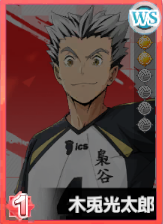
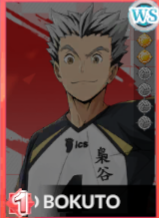
UR
UR stats missing

diff --git a/data-global.js b/data-global.js
@@ -22,7 +22,7 @@ const characters = [
     { name: "Kazuhito R", role: "MB", img: "img-global/kazuhitoR.png", school: "Karasuno", bonds: ["Bench cheer","The Returning Trio"] },
     { name: "Kageyama SR", role: "S", img: "img-global/tobioSR.png", school: "Kitagawa", bonds: [] },
 
-    { name: "Oikawa UR", role: "S", img: "img-japan/oikawaUR.png", school: "Aoba Johsai", bonds: ["Breath of Aoba","To Greater Heights","Fated Rivals","Merciless Trust"] },
+    { name: "Oikawa UR", role: "S", img: "img-global/oikawaUR.png", school: "Aoba Johsai", bonds: ["Breath of Aoba","To Greater Heights","Fated Rivals","Merciless Trust"] },
     { name: "Oikawa SSR", role: "S", img: "img-global/oikawaSSR.png", school: "Aoba Johsai", bonds: ["Team Chemistry"] },
     { name: "Iwaizumi SSR", role: "WS", img: "img-global/iwaizumiSSR.png", school: "Aoba Johsai", bonds: ["The Wolf Pack","Breath of Aoba"] },
     { name: "Iwaizumi SR", role: "WS", img: "img-global/iwaizumiSR.png", school: "Aoba Johsai", bonds: ["The Wolf Pack(Practice)","Team Chemistry"] },
@@ -47,7 +47,7 @@ const characters = [
     { name: "Fukunaga SR", role: "WS", img: "img-global/fukunagaSR.png", school: "Nekoma", bonds: ["Nekoma\'s Wing Spiker"] },
     { name: "Inuoka SR", role: "MB", img: "img-global/inuokaSR.png", school: "Nekoma", bonds: ["Worthy Rival","Nekoma\'s Junior"] },
     { name: "Teshiro SR", role: "S", img: "img-global/teshiroSR.png", school: "Nekoma", bonds: ["Nekoma\'s Junior"] },
-    { name: "Yaku SSR", role: "Li", img: "img-japan/yakuSSR.png", school: "Nekoma", bonds: ["Team's Guardians","Reliable Seniors","Protective Guidance"] },
+    { name: "Yaku SSR", role: "Li", img: "img-global/yakuSSR.png", school: "Nekoma", bonds: ["Team's Guardians","Reliable Seniors","Protective Guidance"] },
 
 
     { name: "Aone SSR", role: "MB", img: "img-global/aoneSSR.png", school: "Date Kogyo", bonds: ["Cannon \& Iron Wall","Surprising Friendship","The Silent and the Snarky"] },
@@ -69,10 +69,10 @@ const characters = [
     { name: "Goshiki SSR", role: "WS", img: "img-global/goshikiSSR.png", school: "Shiratorizawa", bonds: ["Promising Senpai","Undisputed Aces","Shiratorizawa's WS"] },
     { name: "Tendo SSR", role: "MB", img: "img-global/tendoSSR.png", school: "Shiratorizawa", bonds: ["Lifelong Best Friends","Promising Senpai","Shiratorizawa\'s Middke Blocker","Prediction VS System"] },
     { name: "Taichi SR", role: "MB", img: "img-global/kawanishiSR.png", school: "Shiratorizawa", bonds: ["Shiratorizawa\'s Middke Blocker","Shiratorizawa 2nd Years"] },
-    { name: "Shirabu SSR", role: "S", img: "img-japan/shirabuSSR.png",school: "Shiratorizawa", bonds: ["The Absolute King and the Steadfast Setter","Shiratorizawa 2nd Years"] },
-    { name: "Ohira SSR", role: "WS", img: "img-japan/ohiraSSR.png",school: "Shiratorizawa", bonds: ["Ushiwaka and Benkei","Shiratorizawa's WS"] },
+    { name: "Shirabu SSR", role: "S", img: "img-global/shirabuSSR.png",school: "Shiratorizawa", bonds: ["The Absolute King and the Steadfast Setter","Shiratorizawa 2nd Years"] },
+    { name: "Ohira SSR", role: "WS", img: "img-global/ohiraSSR.png",school: "Shiratorizawa", bonds: ["Ushiwaka and Benkei","Shiratorizawa's WS"] },
 
-    { name: "Bokuto UR", role: "WS", img: "img-japan/bokutoUR.png",school: "Fukurodani", bonds: ["Number One Disciple"] },
+    { name: "Bokuto UR", role: "WS", img: "img-global/bokutoUR.png",school: "Fukurodani", bonds: ["Number One Disciple"] },
 
 
 ];

diff --git a/players-data.js b/players-data.js
@@ -443,7 +443,7 @@ const players = [{
   id: "asahi(Practice)",
   name: "Asahi Azumane (Practice)",
   img: "img-char/asahiSR.png",
-    card_g: "img-global/asahiSR.png",
+  card_g: "img-global/asahiSR.png",
   card_j: "img-japan/asahiSR.png",
   school: "Karasuno",
   rarity: "SR",
@@ -1259,6 +1259,35 @@ const players = [{
   ]
 },
 {
+  id: "toru",
+  name: "Toru Oikawa",
+  img: "img-char/oikawaUR.png",
+  card_g: "img-global/oikawaUR.png",
+  card_j: "img-japan/oikawaUR.png",
+  school: "Aoba Johsai",
+  rarity: "UR",
+  position: "Setter",
+  stats: {
+    lvl1: {
+      Serve: 140,
+      Power_Attack: 126,
+      Set: 134,
+      Receive: 113,
+      Block: 126,
+      Save: 106
+    },
+    max: {
+      Serve: "TBD",
+      Power_Attack: "TBD",
+      Set: "TBD",
+      Receive: "TBD",
+      Block: "TBD",
+      Save: "TBD"
+    },
+  },
+  tags: ["Setter", "Aoba Johsai", "URR"],
+},
+{
   id: "toru(Practice)",
   name: "Toru Oikawa (Practice)",
   img: "img-char/oikawaSSR.png",
@@ -2013,7 +2042,7 @@ const players = [{
   id: "kuroo",
   name: "Tetsuro Kuroo",
   img: "img-char/kurooUR.png",
-    card_g: "img-global/kurooUR.png",
+  card_g: "img-global/kurooUR.png",
   card_j: "img-japan/kurooUR.png",
   school: "Nekoma",
   rarity: "UR",
@@ -2216,7 +2245,7 @@ const players = [{
   id: "fukunaga",
   name: "Shohei Fukunaga",
   img: "img-char/fukunagaSR.png",
-      card_g: "img-global/fukunagaSR.png",
+  card_g: "img-global/fukunagaSR.png",
   card_j: "img-japan/fukunagaSR.png",
   school: "Nekoma",
   rarity: "SR",
@@ -2820,4 +2849,33 @@ const players = [{
     },
   },
   tags: ["Middle Blocker", "Shiratorizawa", "SR"]
+},
+{
+  id: "bokuto",
+  name: "kotaro Bokuto",
+  img: "img-char/bokutoUR.png",
+  card_g: "img-global/bokutoUR.png",
+  card_j: "img-japan/bokutoUR.png",
+  school: "Fukurodani",
+  rarity: "UR",
+  position: "Wing Spiker",
+  stats: {
+    lvl1: {
+      Serve: 133,
+      Power_Attack: 140,
+      Set: 112,
+      Receive: 126,
+      Block: 120,
+      Save: 113
+    },
+    max: {
+      Serve: "TBD",
+      Quick_Attack: "TBD",
+      Set: "TBD",
+      Receive: "TBD",
+      Block: "TBD",
+      Save: "TBD"
+    },
+  },
+  tags: ["Wing Spiker", "Fukurodani", "UR"]
 },]
